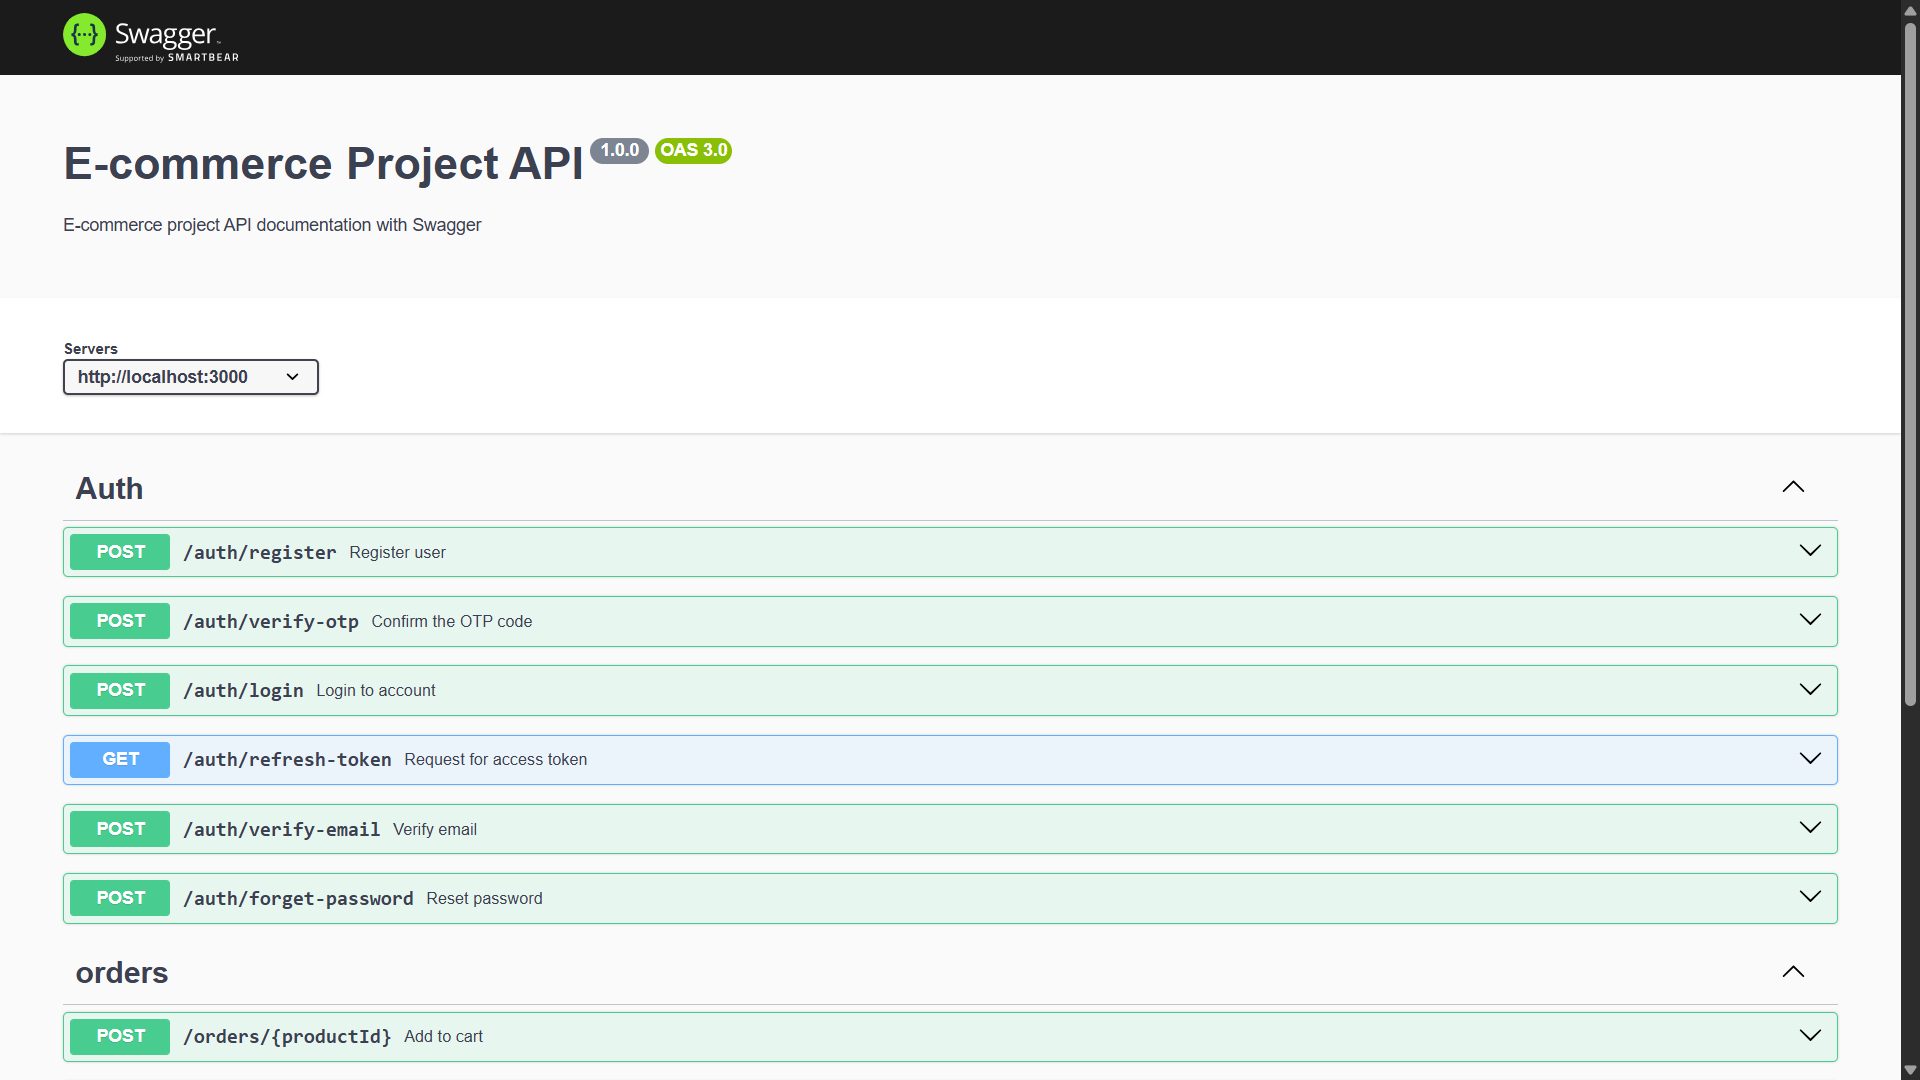
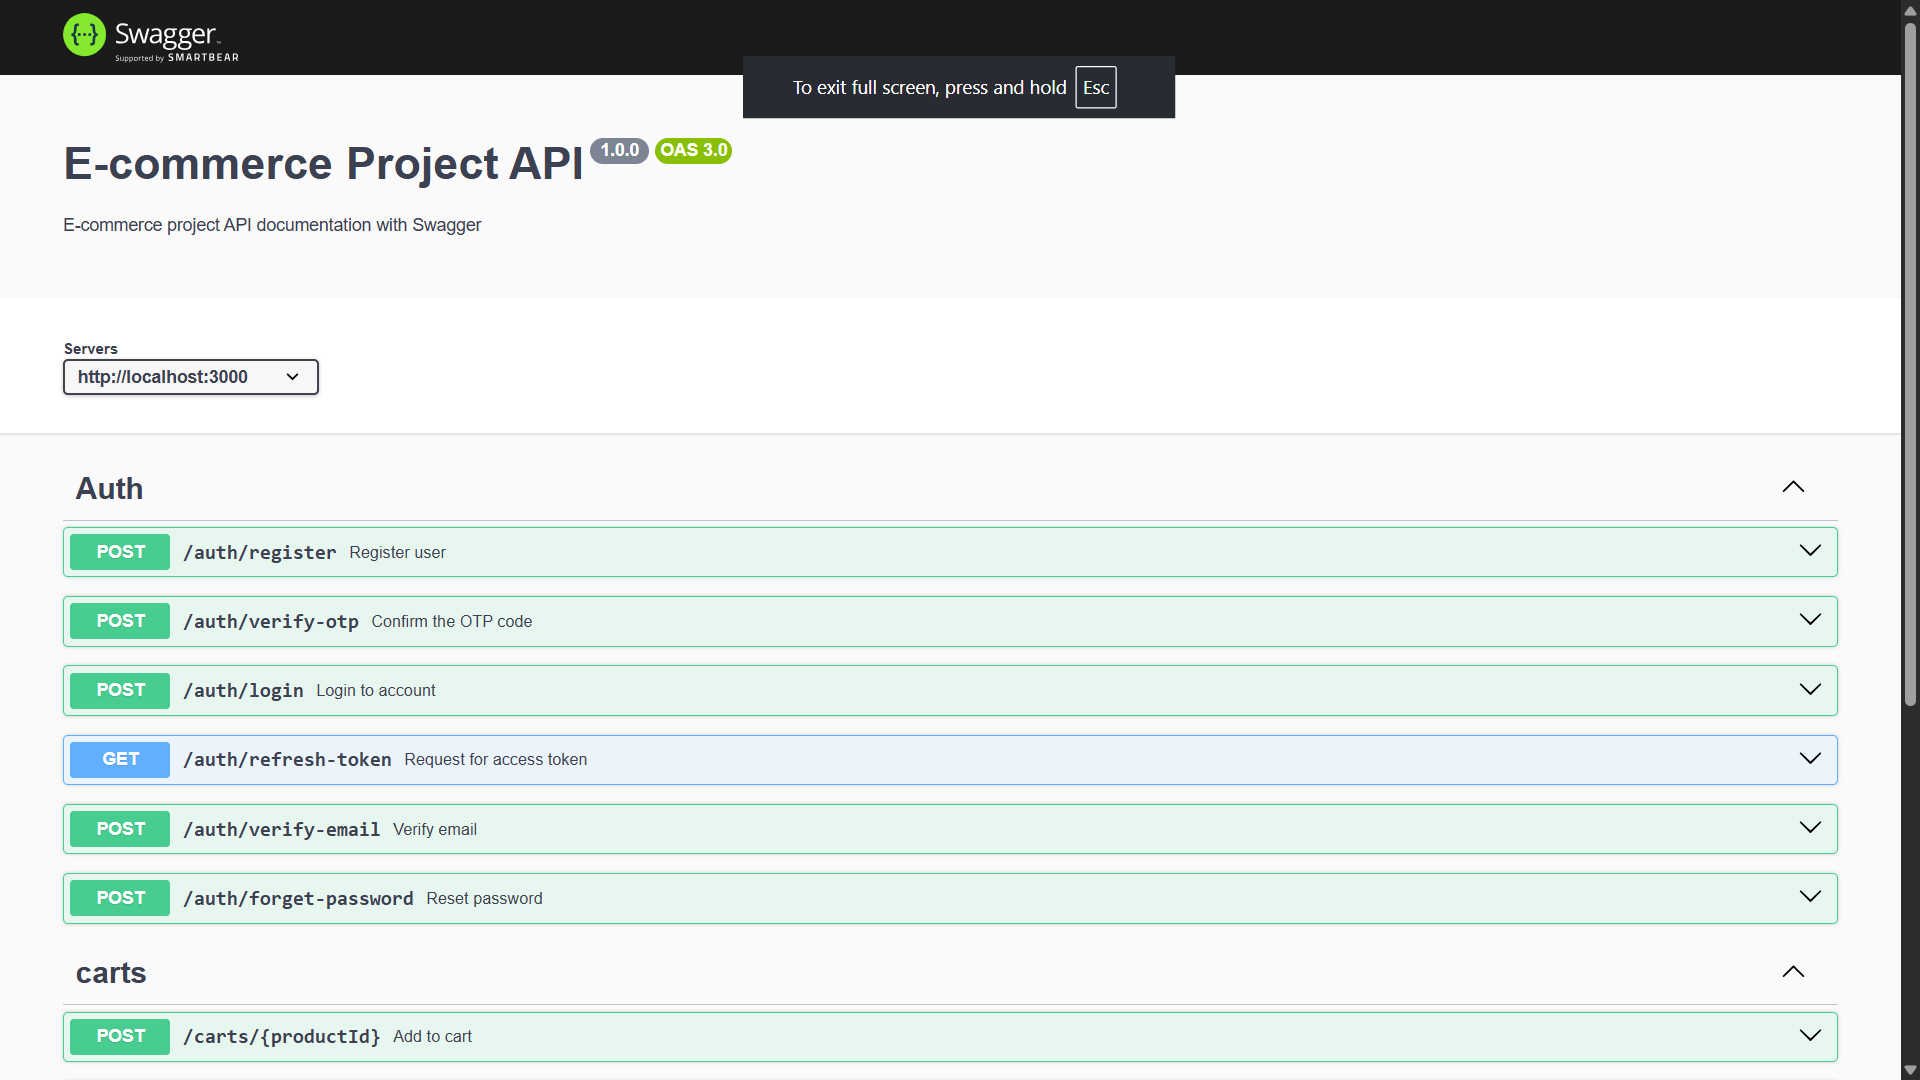
docs: updated screenshots , docs

Changed region(s): [[0.375, 0.0611, 0.625, 0.1222], [0.0938, 0.9472, 0.25, 0.9778], [0.0312, 0.8861, 0.0938, 0.9167]]

diff --git a/docs/cart.docs.js b/docs/cart.docs.js
@@ -3,7 +3,7 @@
  * /carts/{productId}:
  *   post:
  *     summary: Add to cart
- *     tags: [orders]
+ *     tags: [carts]
  *     parameters:
  *       - name: productId
  *         in: path
@@ -55,7 +55,7 @@
  * /carts/{itemId}:
  *   delete:
  *     summary: Delete product from cart
- *     tags: [orders]
+ *     tags: [carts]
  *     parameters:
  *       - name: itemId
  *         in: path
@@ -109,7 +109,7 @@
  * /carts:
  *   get:
  *     summary: Get user cart
- *     tags: [orders]
+ *     tags: [carts]
  *     parameters:
  *       - name: userId
  *         in: path

diff --git a/docs/user.docs.js b/docs/user.docs.js
@@ -3,6 +3,7 @@
  * /users/{userId}:
  *   patch:
  *     summary: Update user info
+ *     tags: [users]
  *     parameters:
  *       - name: userId
  *         in: path
@@ -16,7 +17,6 @@
  *         description: Authentication token
  *         schema:
  *           type: string
- *     tags: [users]
  *     requestBody:
  *       required: At least one
  *       content:
